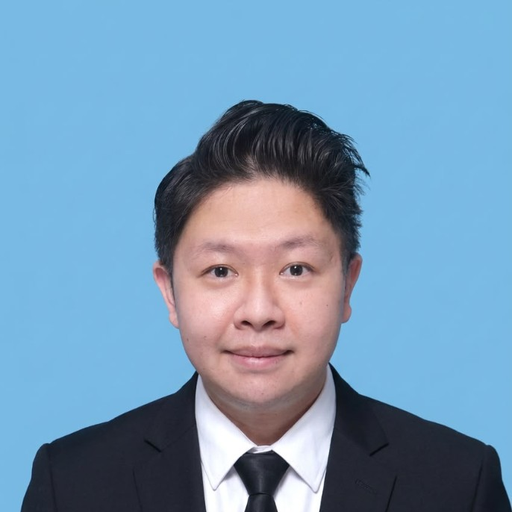
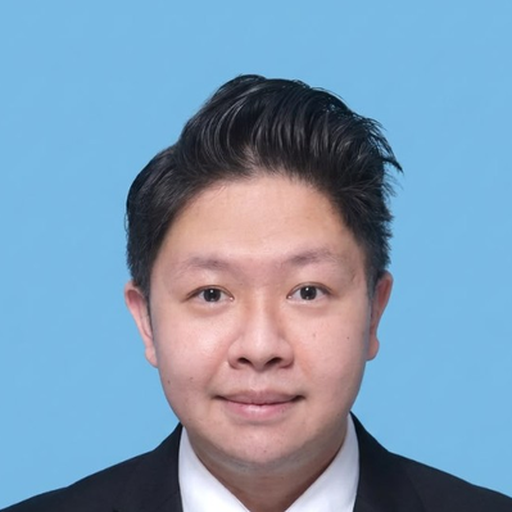
Crop Ka Yi Chan and Joseph Lam a little closer.

diff --git a/js/app.js b/js/app.js
@@ -226,7 +226,7 @@ function cardHTML(m) {
     <article class="card-wrap">
       <button class="card" type="button" data-id="${m.id}" style="--cat:${cat.color}">
         <div class="card-top">
-          <img class="avatar" src="images/members/${m.id}.png?v=20261012c" alt="${m.name}" width="84" height="84">
+          <img class="avatar" src="images/members/${m.id}.png?v=20261013a" alt="${m.name}" width="84" height="84">
           <div>
             <div class="badges">
               <span class="badge">${catLabel}</span>
@@ -275,7 +275,7 @@ function openModal(id) {
     <div class="modal-card" role="dialog" aria-modal="true" aria-labelledby="member-title" style="--cat:${cat.color}">
       <button class="modal-close" type="button" data-close aria-label="${t("close")}">×</button>
       <div class="modal-head">
-        <img src="images/members/${m.id}.png?v=20261012c" alt="${m.name}" width="120" height="120">
+        <img src="images/members/${m.id}.png?v=20261013a" alt="${m.name}" width="120" height="120">
         <div>
           <div class="badges">
             <span class="badge">${catLabel}</span>

diff --git a/index.html b/index.html
@@ -272,7 +272,7 @@
     </button>
   </div>
 
-  <script src="js/members.js?v=20261012d"></script>
-  <script src="js/app.js?v=20261012d"></script>
+  <script src="js/members.js?v=20261013a"></script>
+  <script src="js/app.js?v=20261013a"></script>
 </body>
 </html>
